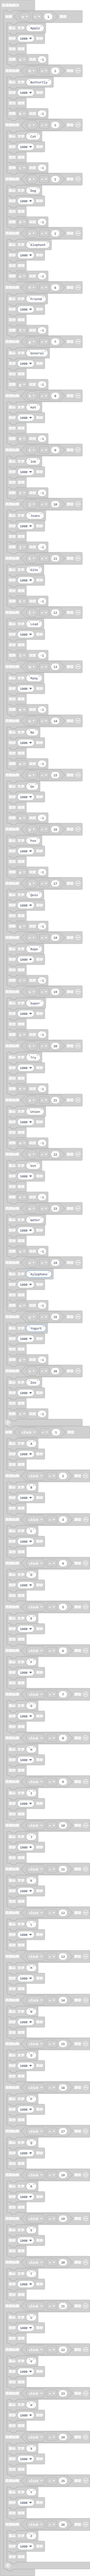
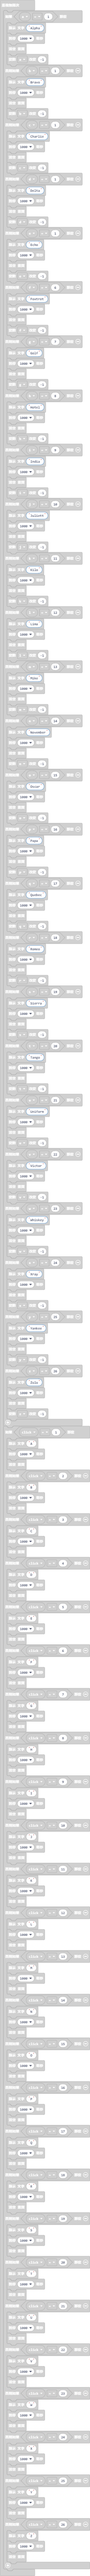
更新 main.blocks, main.ts

diff --git a/main.ts b/main.ts
@@ -92,132 +92,132 @@ let click = 0
 click = 0
 basic.forever(function () {
     if (a == 1) {
-        basic.showString("Apple")
+        basic.showString("Alpha")
         basic.pause(1000)
         basic.clearScreen()
         a += -1
     } else if (b == 1) {
-        basic.showString("Butterfly")
+        basic.showString("Bravo")
         basic.pause(1000)
         basic.clearScreen()
         b += -1
     } else if (c == 1) {
-        basic.showString("Cat")
+        basic.showString("Charlie")
         basic.pause(1000)
         basic.clearScreen()
         c += -1
     } else if (d == 1) {
-        basic.showString("Dog")
+        basic.showString("Delta")
         basic.pause(1000)
         basic.clearScreen()
         d += -1
     } else if (e == 1) {
-        basic.showString("Elephant")
+        basic.showString("Echo")
         basic.pause(1000)
         basic.clearScreen()
         e += -1
     } else if (f == 6) {
-        basic.showString("Friend")
+        basic.showString("Foxtrot")
         basic.pause(1000)
         basic.clearScreen()
         f += -1
     } else if (g == 7) {
-        basic.showString("General")
+        basic.showString("Golf")
         basic.pause(1000)
         basic.clearScreen()
         g += -1
     } else if (h == 8) {
-        basic.showString("Hat")
+        basic.showString("Hotel")
         basic.pause(1000)
         basic.clearScreen()
         h += -1
     } else if (i == 9) {
-        basic.showString("Ink")
+        basic.showString("India")
         basic.pause(1000)
         basic.clearScreen()
         i += -1
     } else if (j == 10) {
-        basic.showString("Jeans")
+        basic.showString("Juliett")
         basic.pause(1000)
         basic.clearScreen()
         j += -1
     } else if (k == 11) {
-        basic.showString("Kite")
+        basic.showString("Kilo")
         basic.pause(1000)
         basic.clearScreen()
         k += -1
     } else if (l == 12) {
-        basic.showString("Lead")
+        basic.showString("Lima")
         basic.pause(1000)
         basic.clearScreen()
         l += -1
     } else if (m == 13) {
-        basic.showString("Many")
+        basic.showString("Mike")
         basic.pause(1000)
         basic.clearScreen()
         m += -1
     } else if (n == 14) {
-        basic.showString("No")
+        basic.showString("November")
         basic.pause(1000)
         basic.clearScreen()
         n += -1
     } else if (o == 15) {
-        basic.showString("On")
+        basic.showString("Oscar")
         basic.pause(1000)
         basic.clearScreen()
         o += -1
     } else if (p == 16) {
-        basic.showString("Pen")
+        basic.showString("Papa")
         basic.pause(1000)
         basic.clearScreen()
         p += -1
     } else if (q == 17) {
-        basic.showString("Quiz")
+        basic.showString("Quebec")
         basic.pause(1000)
         basic.clearScreen()
         q += -1
     } else if (r == 18) {
-        basic.showString("Rope")
+        basic.showString("Romeo")
         basic.pause(1000)
         basic.clearScreen()
         r += -1
     } else if (s == 19) {
-        basic.showString("Super")
+        basic.showString("Sierra")
         basic.pause(1000)
         basic.clearScreen()
         s += -1
     } else if (t == 20) {
-        basic.showString("Try")
+        basic.showString("Tango")
         basic.pause(1000)
         basic.clearScreen()
         t += -1
     } else if (u == 21) {
-        basic.showString("Union")
+        basic.showString("Uniform")
         basic.pause(1000)
         basic.clearScreen()
         u += -1
     } else if (v == 22) {
-        basic.showString("Vet")
+        basic.showString("Victor")
         basic.pause(1000)
         basic.clearScreen()
         v += -1
     } else if (w == 23) {
-        basic.showString("Water")
+        basic.showString("Whiskey")
         basic.pause(1000)
         basic.clearScreen()
         w += -1
     } else if (x == 24) {
-        basic.showString("Xylophone")
+        basic.showString("Xray")
         basic.pause(1000)
         basic.clearScreen()
         x += -1
     } else if (y == 25) {
-        basic.showString("Yogurt")
+        basic.showString("Yankee")
         basic.pause(1000)
         basic.clearScreen()
         y += -1
     } else if (z == 26) {
-        basic.showString("Zoo")
+        basic.showString("Zulu")
         basic.pause(1000)
         basic.clearScreen()
         z += -1
